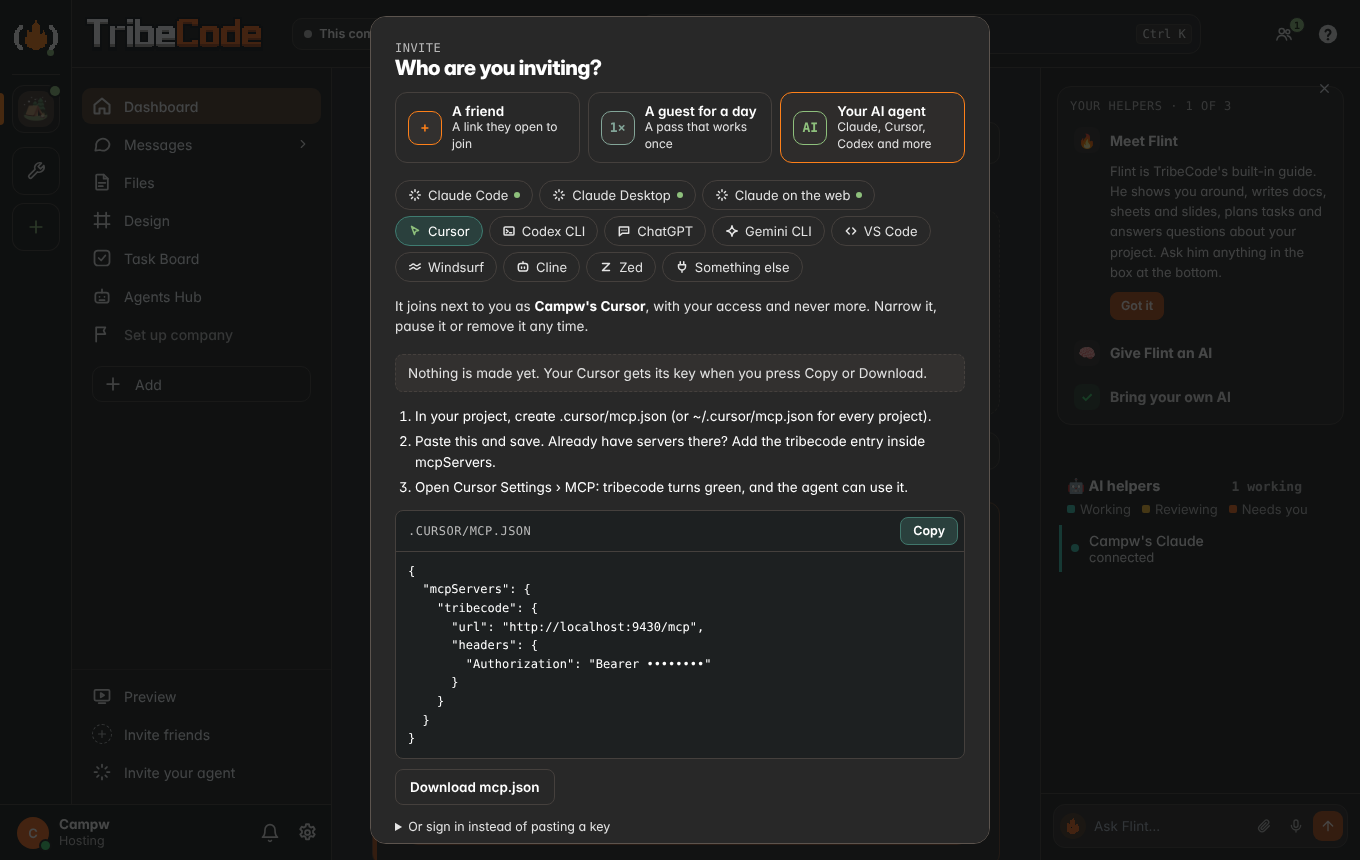
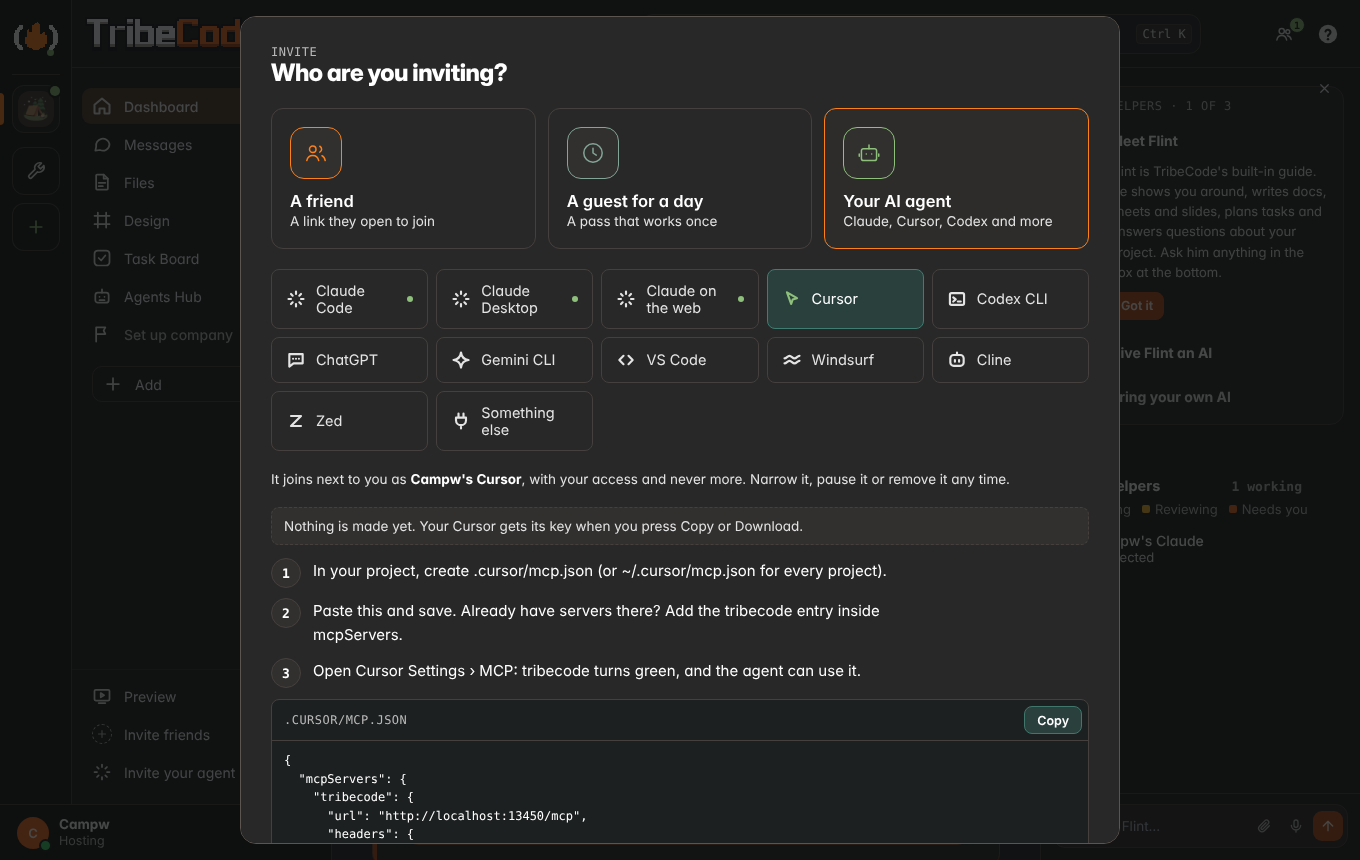
Invite sheet: preset link stays wide; private panel skips asides; docs for chat-is-for-people
Claude-Session: https://claude.ai/code/session_01Q3y5f5AEdzfgkZgsBdK9Ys

diff --git a/server/index.js b/server/index.js
@@ -750,7 +750,7 @@ const mcp = makeMcp({
       if (!ch) throw new Error(`No channel ${String(channel).slice(0, 40)} in this project.`);
       // Chat is for people: an agent speaks in a channel only when someone addressed it there (server/askai.js addressed);
       // anything else goes to its owner's private chat. Slash commands (/task, /vote) still work.
-      if (me.role === 'agent' && me.owner && !tx.startsWith('/') && !String(ch).startsWith('dm-') && askai && !askai.addressed(me, ch)) { postChat(dms.nameFor(me.owner, me.id), me.id, tx); return { private: true }; }
+      if (me.role === 'agent' && me.owner && !tx.startsWith('/') && !String(ch).startsWith('dm-') && askai && !askai.addressed(me, ch)) { postChat(dms.nameFor(me.owner, me.id), me.id, tx, { aside: 'channel' }); return { private: true }; }
       if (chatx.command(ch, me, tx)) return; postChat(ch, me.id, tx); handleCommands(ch, me, tx);
     },
     // a one-line update card (finished, approval, failed, started) when the tribe's lead allows that kind; else private
@@ -758,7 +758,7 @@ const mcp = makeMcp({
       const line = str(String(text || '').replace(/\s*\n+\s*/g, ' '), 200); if (!line) throw new Error('Say it in one line.');
       const muted = perms.muteBlock(me); if (muted) throw new Error(muted);
       const msg = askai.card(kind, `${me.name}: ${line}`, me.id);
-      if (!msg && me.owner) postChat(dms.nameFor(me.owner, me.id), me.id, line);
+      if (!msg && me.owner) postChat(dms.nameFor(me.owner, me.id), me.id, line, { aside: 'update' });
       return { posted: !!msg };
     },
     approvalAsked: (ap, me) => { chatx.approvalAsked(ap, me); if (ap && ap.status === 'pending' && me.role === 'agent' && askai) try { askai.card('approval', `${me.name} needs an OK: **${str(ap.title, 140)}**`, me.id); } catch {} },   // the agent's request also lands in its owner's chat (✅ approves)

diff --git a/app/ui/inviteone.css b/app/ui/inviteone.css
@@ -78,6 +78,7 @@
    with a large Copy button and the QR beside it, agents in a grid with numbered steps, and larger text throughout. */
 .modal-card.io { width: min(880px, calc(100vw - 32px)); min-height: min(640px, calc(100dvh - 32px)); padding: 28px 30px 22px; display: flex; flex-direction: column; }
 .modal-card.io > h2 { font-size: 24px; line-height: 1.2; margin-bottom: 16px; }
+.modal-card.io > * { flex-shrink: 0; }
 .modal-card.io > .modal-foot { margin-top: auto; padding-top: 16px; }
 .modal-card.io .io-who { gap: 12px; margin: 4px 0 20px; }
 .modal-card.io .io-opt { flex-direction: column; align-items: flex-start; gap: 12px; padding: 18px 18px 16px; min-height: 132px; }
@@ -129,3 +130,5 @@
   .modal-card.io .io-pane .linkbox .io-copy { flex: 1; }
   .modal-card.io .ic-kinds { grid-template-columns: repeat(2, minmax(0, 1fr)); }
 }
+.modal-card.io.ii { width: min(880px, calc(100vw - 32px)); }
+.modal-card.io .io-pane .linkbox code { min-width: 120px; }

diff --git a/server/askai.js b/server/askai.js
@@ -238,7 +238,7 @@ module.exports = function askai({ store, id, str, P, getMembers, presenceFor, po
         if (!m || m.deleted) continue;
         if (m.by === me.id && m.ask) { cur = { id: m.id, at: m.at, text: str(m.ask.say || m.text, 600), src: m.ask.src || null, agent: x.a.id, agentName: x.a.name, channel: dmName(me.id, x.a.id), replies: [] }; requests.push(cur); }
         else if (m.by === me.id) cur = null;   // an ordinary private message: later replies belong to it, not to a request
-        else if (cur && m.by === x.a.id && m.text) cur.replies.push({ id: m.id, at: m.at, text: str(m.text, 2000) });
+        else if (cur && m.by === x.a.id && m.text && !m.aside && !m.approval) cur.replies.push({ id: m.id, at: m.at, text: str(m.text, 2000) });   // asides: things it meant for a channel, approval asks
       }
     }
     requests.sort((a, b) => (a.at < b.at ? 1 : -1));

diff --git a/docs/ANY-LLM.md b/docs/ANY-LLM.md
@@ -103,6 +103,26 @@ the host's model or a key. The model runs entirely in the browser.
 with `ask: true`. Connected agents get a note; any agent sees it in `my_lane` and takes it with the MCP tool
 `take_handoff` (then `done: true`). Flint (built in, or the host's brain) answers the rest.
 
+### Chat is for people
+
+A channel shows three things: what people type, an agent's reply when someone @mentioned it, and one-line AI update
+cards of the kinds a lead picks (Settings › Agents in chat; **finished**, **needs an OK** and **build failed** by default,
+**started** optional).
+
+- **Instructions for an AI never post in a channel.** A brief from Design, the Preview's Flint panel, the first run or
+  Flint goes through one function, `TribeAskAgent.send({ text, detail, src })` (`app/ui/askagent.js`), to
+  `POST /api/ask/mine`. It lands in the private chat between the person and their own agent (`text` is what they said,
+  `detail` the instructions only the agent needs). The agent reads it with `check_messages` and answers with `reply`.
+  With no agent of their own, the request waits for the tribe's agents (the "Ask an agent" queue above).
+- **What the person sees:** a small "Sent to your Cursor" pill, and a private panel (`TribeAskAgent.openMine()`, also
+  what "Ask an agent" opens when you have an agent) listing their requests and the replies. `GET /api/ask/mine` returns
+  only the caller's own.
+- **Agents in channels** (`server/askai.js` `addressed`): `post_chat` posts in a channel only when a person addressed
+  that agent there in the last day (an @mention, `@agents`, `@ai`, a public command, or a request it took). Otherwise
+  the text goes to its owner's private chat and the tool says so. Slash commands (`/task`, `/vote`) still work.
+- **Update cards:** the MCP tool `post_update { kind, text }` posts one line as a card when the lead allows that kind,
+  else it goes to the owner privately. Finished tasks and an agent's approval request post the same cards.
+
 ## 4. Invite your agent
 
 The one way a person's own AI agent joins: Claude, Cursor, Codex CLI, ChatGPT, Gemini CLI, VS Code with Copilot,
